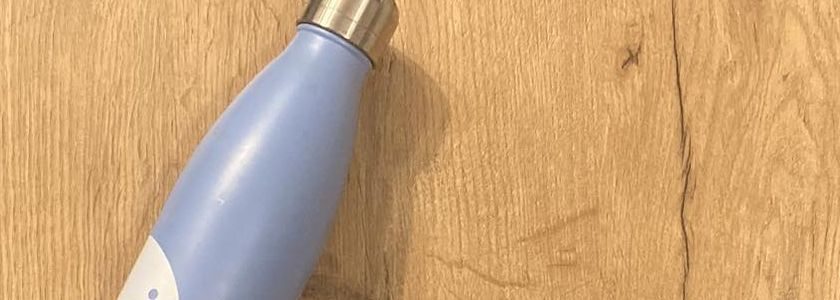
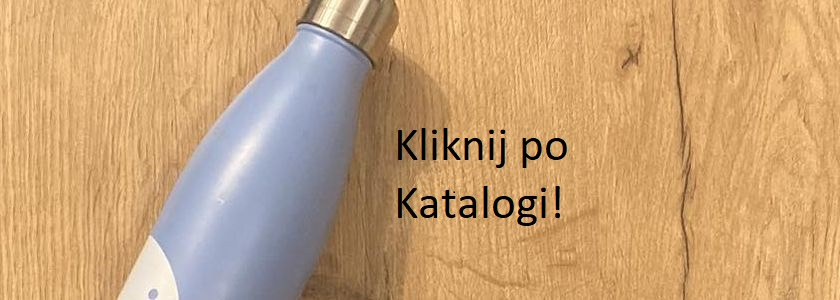
linki

Changed region(s): [[0.4643, 0.42, 0.681, 0.57], [0.4643, 0.63, 0.681, 0.75]]

diff --git a/index.html b/index.html
@@ -33,10 +33,12 @@
             <!-- Obrazy w slajdzie -->
             <div class="mySlides">
                 <div class="numbertext">1 / 3</div>
-                <img src="img/b1.jpg" style="width:100%" style="height:50%">
+                <a href="galeriapomyslow.html">
+                    <img src="img/b1.jpg" style="width:100%" style="height:50%">
+                </a>
             </div>
          
-            
+
             <div class="mySlides">
                 <div class="numbertext">2 / 3</div>
                 <img src="img/b2.jpg" style="width:100%" style="height:50%">
